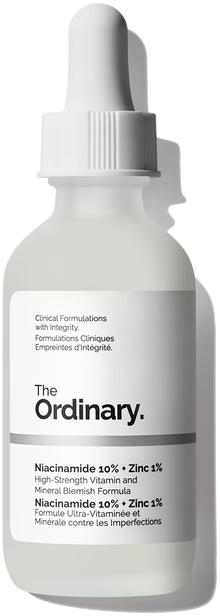
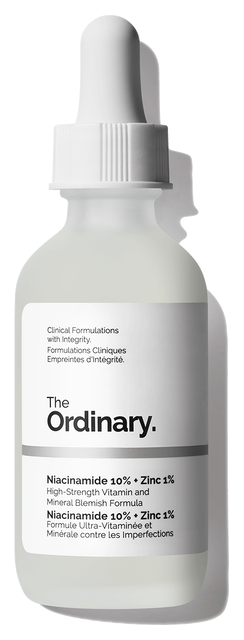
fix: replace low-res and hollowed-out packshots with high-res solid official brand packshots, remove 3D transform blur, and enlarge product presentation

diff --git a/public/styles.css b/public/styles.css
@@ -604,39 +604,22 @@ button, input, select {
 .product-rotation-wrapper {
   position: relative;
   z-index: 5;
-  width: 180px;
-  height: 260px;
+  width: 220px;
+  height: 280px;
   margin-top: -10px;
   display: flex;
   align-items: center;
   justify-content: center;
-  perspective: 900px;
 }
 
-/* Continuous 3D Turntable Animation (Crystal-Clear Original Image, NO blur!) */
+/* Continuous Floating Levitation (Crystal-Clear Original Image, NO blur!) */
 .rotating-bottle-3d {
-  max-width: 150px;
-  max-height: 240px;
+  max-width: 170px;
+  max-height: 250px;
   object-fit: contain;
-  image-rendering: -webkit-optimize-contrast;
-  image-rendering: crisp-edges;
-  filter: drop-shadow(0 14px 22px rgba(0, 0, 0, 0.75));
-  animation: rotate-turntable-crisp 7s ease-in-out infinite;
-  transform-style: preserve-3d;
-  backface-visibility: hidden;
-  will-change: transform;
-}
-
-@keyframes rotate-turntable-crisp {
-  0% {
-    transform: translateY(0px) rotateY(-18deg) scale(1);
-  }
-  50% {
-    transform: translateY(-8px) rotateY(18deg) scale(1.02);
-  }
-  100% {
-    transform: translateY(0px) rotateY(-18deg) scale(1);
-  }
+  filter: drop-shadow(0 16px 24px rgba(0, 0, 0, 0.75));
+  animation: float-levitate 4.5s ease-in-out infinite;
+  display: block;
 }
 
 /* Glowing Elliptical Pedestal Platform at the bottom of light cone */
@@ -1026,45 +1009,45 @@ button, input, select {
   white-space: nowrap;
 }
 
-/* 3D Pedestal Stage inside Card (Crystal Sharp Vector Spotlight, NO blur!) */
+/* Studio Pedestal Stage inside Card (Crystal Sharp, Illuminated, NO blur!) */
 .step-product-stage {
   position: relative;
-  height: 220px;
+  height: 250px;
   display: flex;
   align-items: center;
   justify-content: center;
-  perspective: 900px;
   overflow: hidden;
-  border-radius: 18px;
-  background: radial-gradient(circle at 50% 55%, rgba(255, 255, 255, 0.05) 0%, #0c0f16 75%);
-  margin-bottom: 18px;
-  border: 1px solid rgba(255, 255, 255, 0.06);
+  border-radius: 20px;
+  background: radial-gradient(circle at 50% 45%, #182030 0%, #0e121a 55%, #080a0f 100%);
+  margin-bottom: 20px;
+  border: 1px solid rgba(255, 255, 255, 0.08);
+  box-shadow: inset 0 0 40px rgba(0, 0, 0, 0.5);
 }
 
 .stage-cone-beam {
   position: absolute;
-  bottom: 20px;
+  bottom: 22px;
   left: 50%;
   transform: translateX(-50%);
-  width: 170px;
-  height: 170px;
-  background: linear-gradient(to top, rgba(200, 230, 255, 0.22) 0%, rgba(160, 205, 255, 0.06) 50%, transparent 100%);
-  clip-path: polygon(25% 0%, 75% 0%, 100% 100%, 0% 100%);
+  width: 210px;
+  height: 210px;
+  background: linear-gradient(to top, rgba(200, 230, 255, 0.24) 0%, rgba(150, 200, 255, 0.06) 55%, transparent 100%);
+  clip-path: polygon(20% 0%, 80% 0%, 100% 100%, 0% 100%);
   pointer-events: none;
   z-index: 2;
 }
 
 .stage-pedestal-platform {
   position: absolute;
-  bottom: 14px;
+  bottom: 16px;
   left: 50%;
   transform: translateX(-50%);
-  width: 125px;
-  height: 26px;
+  width: 155px;
+  height: 32px;
   border-radius: 50%;
   background: radial-gradient(ellipse at center, #ffffff 0%, #ccd8e8 40%, #566882 75%, transparent 100%);
-  box-shadow: 0 0 24px rgba(200, 230, 255, 0.45);
-  border: 1px solid rgba(255, 255, 255, 0.6);
+  box-shadow: 0 0 28px rgba(200, 230, 255, 0.45);
+  border: 1px solid rgba(255, 255, 255, 0.7);
   z-index: 3;
 }
 
@@ -1076,19 +1059,28 @@ button, input, select {
   justify-content: center;
   width: 100%;
   height: 100%;
+  padding: 12px;
 }
 
+/* Crystal-Clear Authentic Packshot: Large, Razor-Sharp, Zero Blur! */
 .crisp-product-img {
-  max-height: 160px;
-  max-width: 120px;
+  height: 195px;
+  max-height: 200px;
+  width: auto;
+  max-width: 85%;
   object-fit: contain;
-  image-rendering: -webkit-optimize-contrast;
-  image-rendering: crisp-edges;
-  filter: drop-shadow(0 12px 18px rgba(0, 0, 0, 0.7));
-  animation: rotate-turntable-crisp 7s ease-in-out infinite;
-  transform-style: preserve-3d;
-  backface-visibility: hidden;
-  will-change: transform;
+  filter: drop-shadow(0 14px 22px rgba(0, 0, 0, 0.75));
+  animation: float-levitate 4.5s ease-in-out infinite;
+  display: block;
+}
+
+@keyframes float-levitate {
+  0%, 100% {
+    transform: translateY(0);
+  }
+  50% {
+    transform: translateY(-7px);
+  }
 }
 
 /* Card Content: Title, Price, Guidance, Tips */

diff --git a/public/app.js b/public/app.js
@@ -142,7 +142,7 @@ const defaultCatalog = {
       step: "03",
       timing: "Morning (AM)",
       usageTip: "Smooth a nickel-sized amount evenly over face and neck to lock in active serum hydration.",
-      imageUrl: "/assets/cerave-cream.png",
+      imageUrl: "/assets/cerave-lotion.png",
       stores: {
         blinkit: "https://blinkit.com/s/?q=cerave+moisturising+cream",
         zepto: "https://www.zeptonow.com/search?query=cerave+moisturising+cream",

diff --git a/api/catalog.js b/api/catalog.js
@@ -55,7 +55,7 @@ export const catalog = {
       step: "03",
       timing: "Morning (AM)",
       usageTip: "Smooth a nickel-sized amount evenly over face and neck to lock in active serum hydration.",
-      imageUrl: "/assets/cerave-cream.png",
+      imageUrl: "/assets/cerave-lotion.png",
       stores: {
         blinkit: "https://blinkit.com/s/?q=cerave+moisturising+cream",
         zepto: "https://www.zeptonow.com/search?query=cerave+moisturising+cream",
